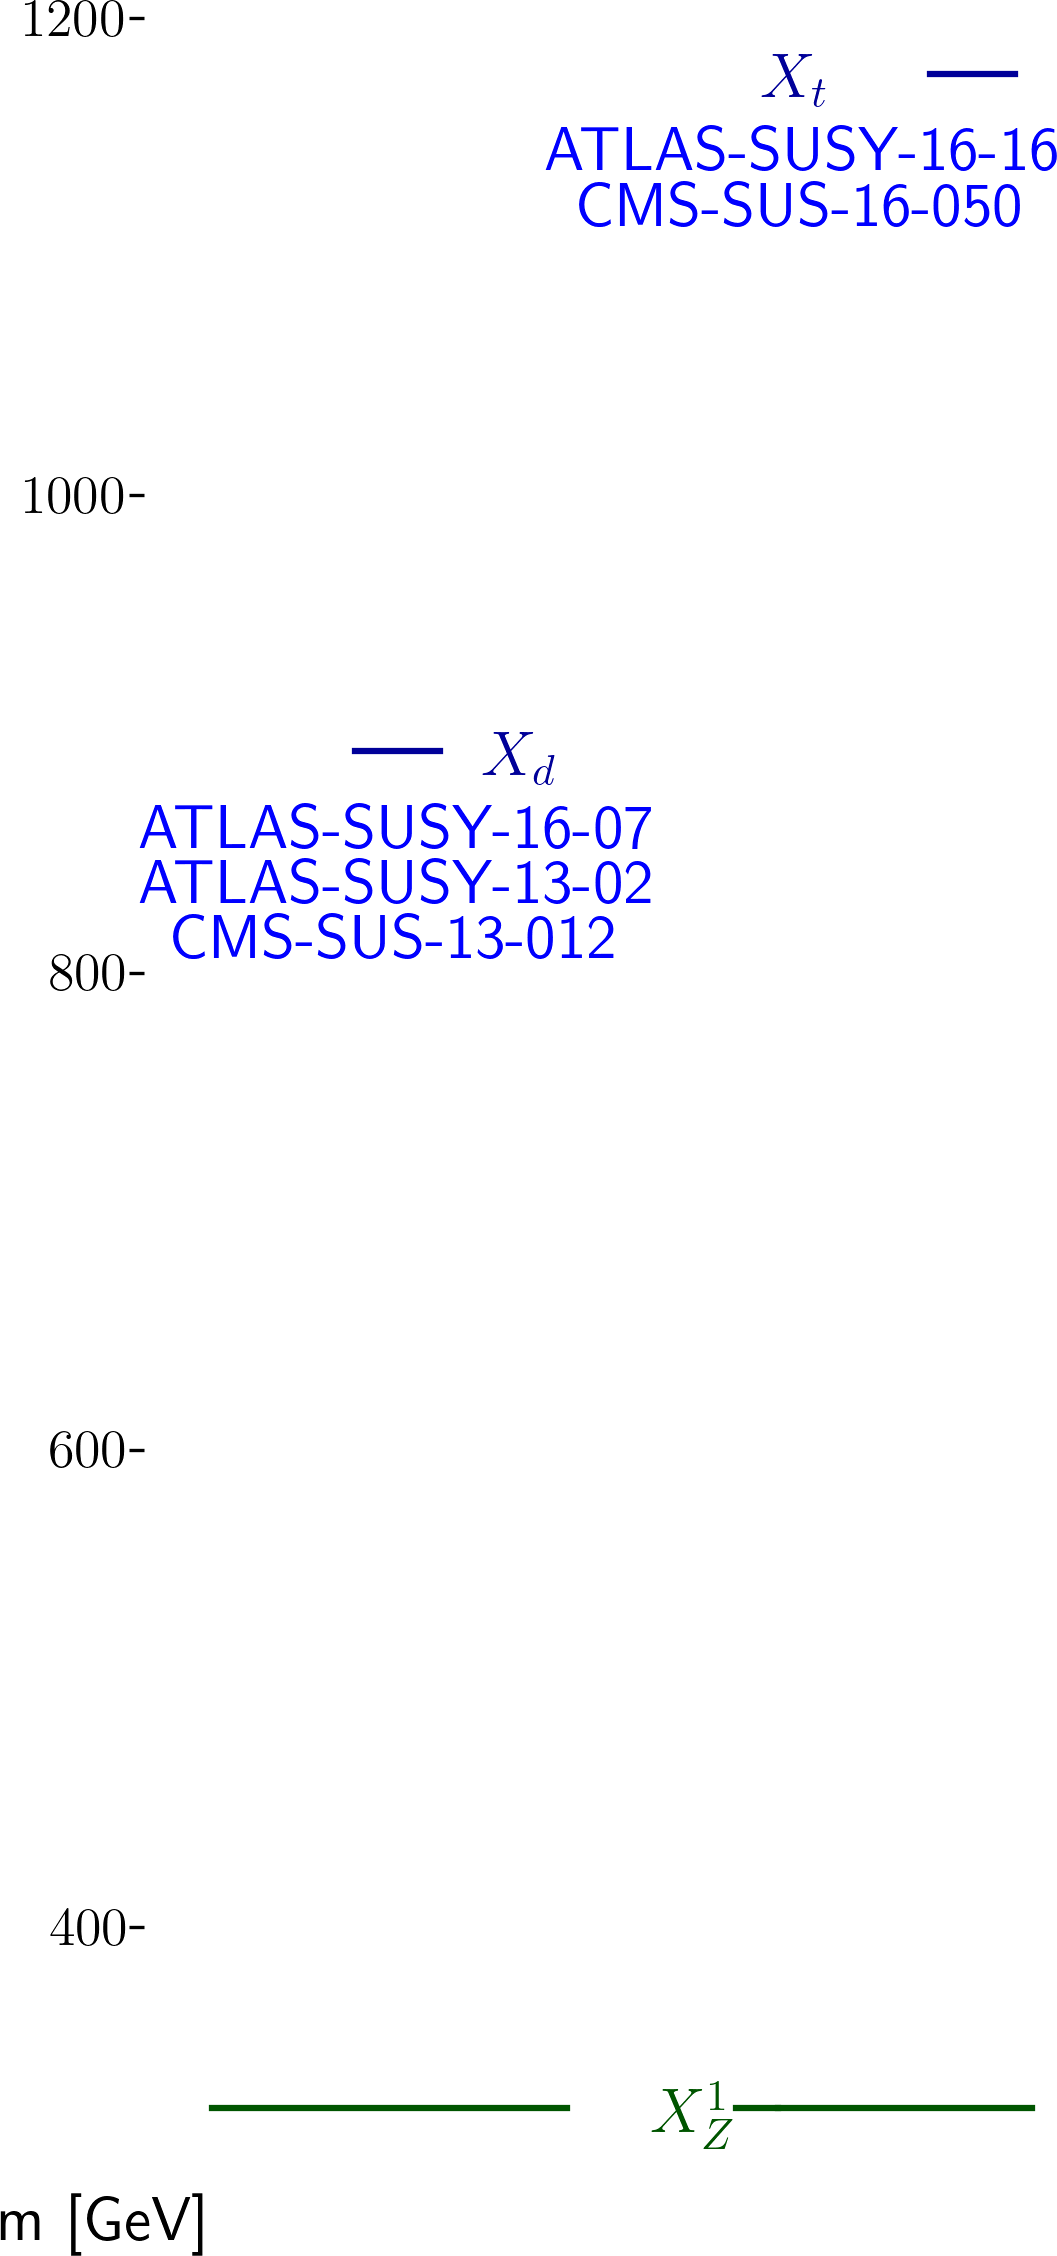
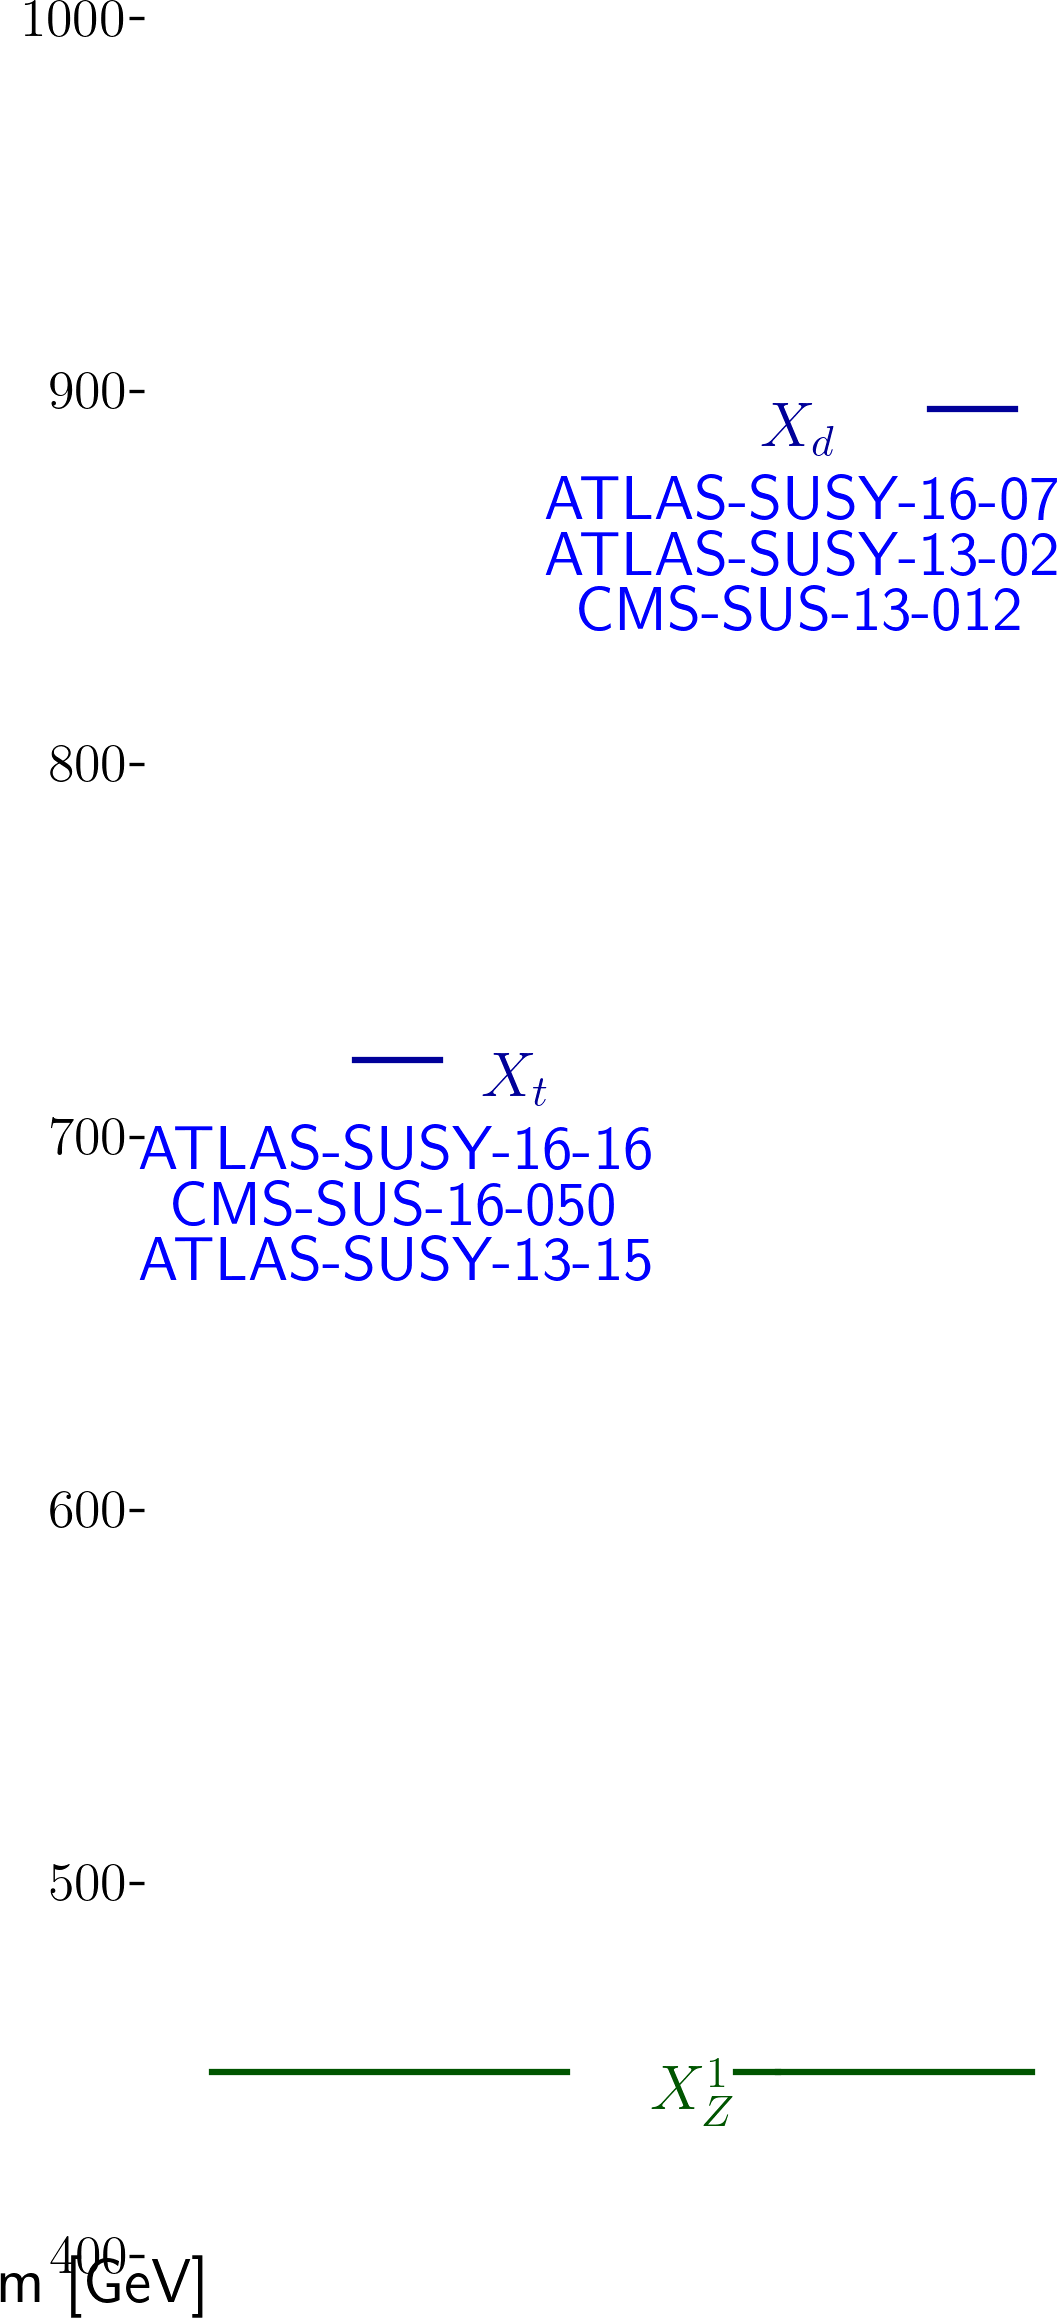
automated update by plotHiscore.py to /scratch-cbe/users/wolfgan.waltenberger/git/smodels.github.io/protomodels/2020_PioneerStudy/real8/

diff --git a/protomodels/2020_PioneerStudy/real8/index.html b/protomodels/2020_PioneerStudy/real8/index.html
@@ -1,30 +1,31 @@
 <html>
 <body>
 <center>
-<table><td><h1>Current best protomodel: K=6.79</h1><td><img height=60px src=https://smodels.github.io/pics/banner.png></table>
+<table><td><h1>Current best protomodel: K=8.09</h1><td><img height=60px src=https://smodels.github.io/pics/banner.png></table>
 </center>
-<b><a href=./hiscore.slha>ProtoModel</a> <a href=./pmodel.py>(dict)</a> produced with <a href=https://smodels.github.io/docs/Validation124>database v1.2.4</a>, combination strategy <a href=./matrix_aggressive.png>aggressive</a> in walker 28 step 664.</b> K plots for: <a href=./M1000022.png?13243405>X<sub>Z</sub><sup>1</sup></a>, <a href=./M1000006.png?13243405>X<sub>t</sub></a>, <a href=./M1000001.png?13243405>X<sub>d</sub></a>. HPD plots for: <a href=./llhd1000006.png?13243405>X<sub>t</sub></a>, <a href=./llhd1000001.png?13243405>X<sub>d</sub></a>. SSM plots for: <a href=./ssm_-1000006_1000006.png?13243405>(x&#772;<sub>t</sub>,X<sub>t</sub>)</a><br>
+<b><a href=./hiscore.slha>ProtoModel</a> <a href=./pmodel.py>(dict)</a> produced with <a href=https://smodels.github.io/docs/Validation124>database v1.2.4</a>, combination strategy <a href=./matrix_aggressive.png>aggressive</a> in walker 44 step 147.</b> K plots for: <a href=./M1000022.png?13649091>X<sub>Z</sub><sup>1</sup></a>, <a href=./M1000001.png?13649091>X<sub>d</sub></a>, <a href=./M1000006.png?13649091>X<sub>t</sub></a>. HPD plots for: <a href=./llhd1000001.png?13649091>X<sub>d</sub></a>, <a href=./llhd1000006.png?13649091>X<sub>t</sub></a>. SSM plots for: <a href=./ssm_-1000006_1000006.png?13649091>(x&#772;<sub>t</sub>,X<sub>t</sub>)</a><br>
 <table width=80%>
 <tr><td>
-<br><b>24 predictions available. Highest r values are:</b><br><ul>
-<li><a href=http://cms-results.web.cern.ch/cms-results/public-results/publications/SUS-19-006/index.html>CMS-SUS-19-006</a>:T2 r=1.30, r<sub>exp</sub>=1.12<br>
-<li><a href=http://cms-results.web.cern.ch/cms-results/public-results/publications/SUS-16-033/index.html>CMS-SUS-16-033</a>:T2 r=1.10, r<sub>exp</sub>=0.82<br>
-<li><a href=http://cms-results.web.cern.ch/cms-results/public-results/publications/SUS-19-006/index.html>CMS-SUS-19-006</a>:T2tt r=1.09, r<sub>exp</sub>=1.03<br>
-<li><a href=http://cms-results.web.cern.ch/cms-results/public-results/publications/SUS-16-036/index.html>CMS-SUS-16-036</a>:T2 r=0.80, r<sub>exp</sub>=0.77<br>
-<li><a href=http://cms-results.web.cern.ch/cms-results/public-results/publications/SUS-16-051/index.html>CMS-SUS-16-051</a>:T2tt r=0.79, r<sub>exp</sub>=0.52<br>
+<br><b>33 predictions available. Highest r values are:</b><br><ul>
+<li><a href=http://cms-results.web.cern.ch/cms-results/public-results/publications/SUS-16-033/index.html>CMS-SUS-16-033</a>:T2 r=1.30, r<sub>exp</sub>=0.88<br>
+<li><a href=http://cms-results.web.cern.ch/cms-results/public-results/publications/SUS-19-006/index.html>CMS-SUS-19-006</a>:T2tt r=1.30, r<sub>exp</sub>=0.80<br>
+<li><a href=http://cms-results.web.cern.ch/cms-results/public-results/publications/SUS-19-006/index.html>CMS-SUS-19-006</a>:T2 r=1.30, r<sub>exp</sub>=1.15<br>
+<li><a href=http://cms-results.web.cern.ch/cms-results/public-results/publications/SUS-16-036/index.html>CMS-SUS-16-036</a>:T2 r=1.00, r<sub>exp</sub>=0.76<br>
+<li><a href=http://cms-results.web.cern.ch/cms-results/public-results/publications/SUS-16-049/index.html>CMS-SUS-16-049</a>:T2tt r=0.70, r<sub>exp</sub>=0.63<br>
 </ul>
 <td><br><b>K values without analyses: (contribution)</b><br>
 <ul>
-<li> <a href=http://cms-results.web.cern.ch/cms-results/public-results/publications/SUS-16-050/index.html>CMS-SUS-16-050</a>: 3.60 (14%)
-<li> <a href=https://twiki.cern.ch/twiki/bin/view/CMSPublic/PhysicsResultsSUS13012>CMS-SUS-13-012</a>: 3.60 (14%)
-<li> <a href=https://atlas.web.cern.ch/Atlas/GROUPS/PHYSICS/PAPERS/SUSY-2013-02/>ATLAS-SUSY-2013-02</a>: 3.55 (14%)
-<li> <a href=https://atlas.web.cern.ch/Atlas/GROUPS/PHYSICS/PAPERS/SUSY-2016-16/>ATLAS-SUSY-2016-16</a>: 1.18 (25%)
-<li> <a href=https://atlas.web.cern.ch/Atlas/GROUPS/PHYSICS/PAPERS/SUSY-2016-07/>ATLAS-SUSY-2016-07</a>: -0.81 (33%)
-<td><img width=600px src=./texdoc.png?1606243405>
-<br><font size=-1>Last updated: Tue Nov 24 19:43:25 2020</font>
+<li> <a href=https://twiki.cern.ch/twiki/bin/view/CMSPublic/PhysicsResultsSUS13012>CMS-SUS-13-012</a>: 3.47 (13%)
+<li> <a href=http://cms-results.web.cern.ch/cms-results/public-results/publications/SUS-16-050/index.html>CMS-SUS-16-050</a>: 3.47 (13%)
+<li> <a href=https://atlas.web.cern.ch/Atlas/GROUPS/PHYSICS/PAPERS/SUSY-2013-02/>ATLAS-SUSY-2013-02</a>: 3.40 (14%)
+<li> <a href=https://atlas.web.cern.ch/Atlas/GROUPS/PHYSICS/PAPERS/SUSY-2013-15/>ATLAS-SUSY-2013-15</a>: 3.13 (14%)
+<li> <a href=https://atlas.web.cern.ch/Atlas/GROUPS/PHYSICS/PAPERS/SUSY-2016-16/>ATLAS-SUSY-2016-16</a>: 1.60 (19%)
+<li> <a href=https://atlas.web.cern.ch/Atlas/GROUPS/PHYSICS/PAPERS/SUSY-2016-07/>ATLAS-SUSY-2016-07</a>: -1.05 (27%)
+<td><img width=600px src=./texdoc.png?1606649091>
+<br><font size=-1>Last updated: Sun Nov 29 12:24:51 2020</font>
 </table><table style="width:80%">
-<td width=45%><img height=580px src=./ruler.png?1606243405><td width=55%><img height=380px src=./decays.png?1606243405>
-<font size=-3><iframe type="text/html" height="220px" width="100%s" frameborder="0" src="./rawnumbers.html?1606243405"></iframe></font>
+<td width=45%><img height=580px src=./ruler.png?1606649091><td width=55%><img height=380px src=./decays.png?1606649091>
+<font size=-3><iframe type="text/html" height="220px" width="100%s" frameborder="0" src="./rawnumbers.html?1606649091"></iframe></font>
 </table>
 </body>
 </html>

diff --git a/protomodels/2020_PioneerStudy/real8/rawnumbers.html b/protomodels/2020_PioneerStudy/real8/rawnumbers.html
@@ -2,8 +2,9 @@
 <tr><th>Analysis Name</th><th>Type</th><th>Dataset</th><th>Topos</th><th>Observed</th><th>Expected</th><th>Approx &sigma;</th><th>Particles</th>
 </tr>
 <tr><td><a href=https://atlas.web.cern.ch/Atlas/GROUPS/PHYSICS/PAPERS/SUSY-2013-02/>ATLAS-SUSY-2013-02</a></td><td>em</td> <td>SR6jtp</td><td>T2</td><td>6</td><td>4.9 +/- 1.6</td><td style="text-align:right">0.4 &sigma;</td><td style="text-align:right">X<sub>d</sub></td></tr>
+<tr><td><a href=https://atlas.web.cern.ch/Atlas/GROUPS/PHYSICS/PAPERS/SUSY-2013-15/>ATLAS-SUSY-2013-15</a></td><td>em</td> <td>tNboost</td><td>T2tt</td><td>5</td><td>3.3 +/- 0.7</td><td style="text-align:right">0.9 &sigma;</td><td style="text-align:right">X<sub>t</sub></td></tr>
 <tr><td><a href=https://atlas.web.cern.ch/Atlas/GROUPS/PHYSICS/PAPERS/SUSY-2016-07/>ATLAS-SUSY-2016-07</a></td><td>em</td> <td>2j_Meff_1200</td><td>T2</td><td>611</td><td>526 +/- 31</td><td style="text-align:right">2.2 &sigma;</td><td style="text-align:right">X<sub>d</sub></td></tr>
-<tr><td><a href=https://atlas.web.cern.ch/Atlas/GROUPS/PHYSICS/PAPERS/SUSY-2016-16/>ATLAS-SUSY-2016-16</a></td><td>em</td> <td>tN_high</td><td>T2tt</td><td>8</td><td>3.8 +/- 1</td><td style="text-align:right">1.9 &sigma;</td><td style="text-align:right">X<sub>t</sub></td></tr>
-<tr><td><a href=https://twiki.cern.ch/twiki/bin/view/CMSPublic/PhysicsResultsSUS13012>CMS-SUS-13-012</a></td><td>ul</td> <td>-</td><td>T2</td><td> 21.0 fb </td><td> 12.8 fb</td><td style="text-align:right">1.3 &sigma;</td><td style="text-align:right">X<sub>d</sub></td></tr>
-<tr><td><a href=http://cms-results.web.cern.ch/cms-results/public-results/publications/SUS-16-050/index.html>CMS-SUS-16-050</a></td><td>ul</td> <td>-</td><td>T2tt</td><td> 4.9 fb </td><td> 2.7 fb</td><td style="text-align:right">1.5 &sigma;</td><td style="text-align:right">X<sub>t</sub></td></tr>
+<tr><td><a href=https://atlas.web.cern.ch/Atlas/GROUPS/PHYSICS/PAPERS/SUSY-2016-16/>ATLAS-SUSY-2016-16</a></td><td>em</td> <td>tN_med</td><td>T2tt</td><td>50</td><td>36.3 +/- 6.6</td><td style="text-align:right">1.5 &sigma;</td><td style="text-align:right">X<sub>t</sub></td></tr>
+<tr><td><a href=https://twiki.cern.ch/twiki/bin/view/CMSPublic/PhysicsResultsSUS13012>CMS-SUS-13-012</a></td><td>ul</td> <td>-</td><td>T2</td><td> 37.9 fb </td><td> 23.2 fb</td><td style="text-align:right">1.2 &sigma;</td><td style="text-align:right">X<sub>d</sub></td></tr>
+<tr><td><a href=http://cms-results.web.cern.ch/cms-results/public-results/publications/SUS-16-050/index.html>CMS-SUS-16-050</a></td><td>ul</td> <td>-</td><td>T2tt</td><td> 212.7 fb </td><td> 89.6 fb</td><td style="text-align:right">2.7 &sigma;</td><td style="text-align:right">X<sub>t</sub></td></tr>
 </table>

diff --git a/protomodels/2020_PioneerStudy/real8/pmodel.py b/protomodels/2020_PioneerStudy/real8/pmodel.py
@@ -1,1 +1,1 @@
-{'masses': {1000022: 314.235, 1000006: 1166.709, 1000001: 882.719}, 'ssmultipliers': {(1000022, 1000022): 0.0, (1000006, 1000006): 1.181, (-1000006, 1000006): 1.22, (-1000006, -1000006): 1.181, (1000006, 1000022): 1.181, (-1000006, 1000022): 1.181, (1000001, 1000001): 1.102, (-1000001, 1000001): 1.102, (-1000001, -1000001): 1.102, (1000001, 1000022): 1.102, (-1000001, 1000022): 1.102, (1000001, 1000006): 0.903, (-1000001, 1000006): 0.903, (-1000006, 1000001): 0.903, (-1000006, -1000001): 0.903}, 'decays': {1000022: {}, 1000006: {(1000022, 6): 1.0}, 1000001: {(1000022, 1): 1.0}}, 'timestamp': 'Tue Nov 24 19:43:08 2020', 'Z': 3.215, 'K': 6.789, 'walkerid': 28, 'step': 664, 'codever': '1.0', 'dbver': '1.2.4'}
+{'masses': {1000022: 439.284, 1000006: 710.669, 1000001: 885.035}, 'ssmultipliers': {(1000022, 1000022): 1.123, (1000006, 1000006): 0.722, (-1000006, 1000006): 0.722, (-1000006, -1000006): 0.672, (1000006, 1000022): 0.949, (-1000006, 1000022): 0.949, (1000001, 1000001): 1.856, (-1000001, 1000001): 1.856, (-1000001, -1000001): 1.856, (1000001, 1000022): 1.834, (-1000001, 1000022): 0.0, (1000001, 1000006): 2.065, (-1000001, 1000006): 2.065, (-1000006, 1000001): 2.903, (-1000006, -1000001): 2.065}, 'decays': {1000022: {}, 1000006: {(1000022, 6): 1.0}, 1000001: {(1000022, 1): 1.0}}, 'timestamp': 'Sun Nov 29 12:24:43 2020', 'Z': 3.407, 'K': 8.086, 'walkerid': 44, 'step': 147, 'codever': '1.0', 'dbver': '1.2.4'}
